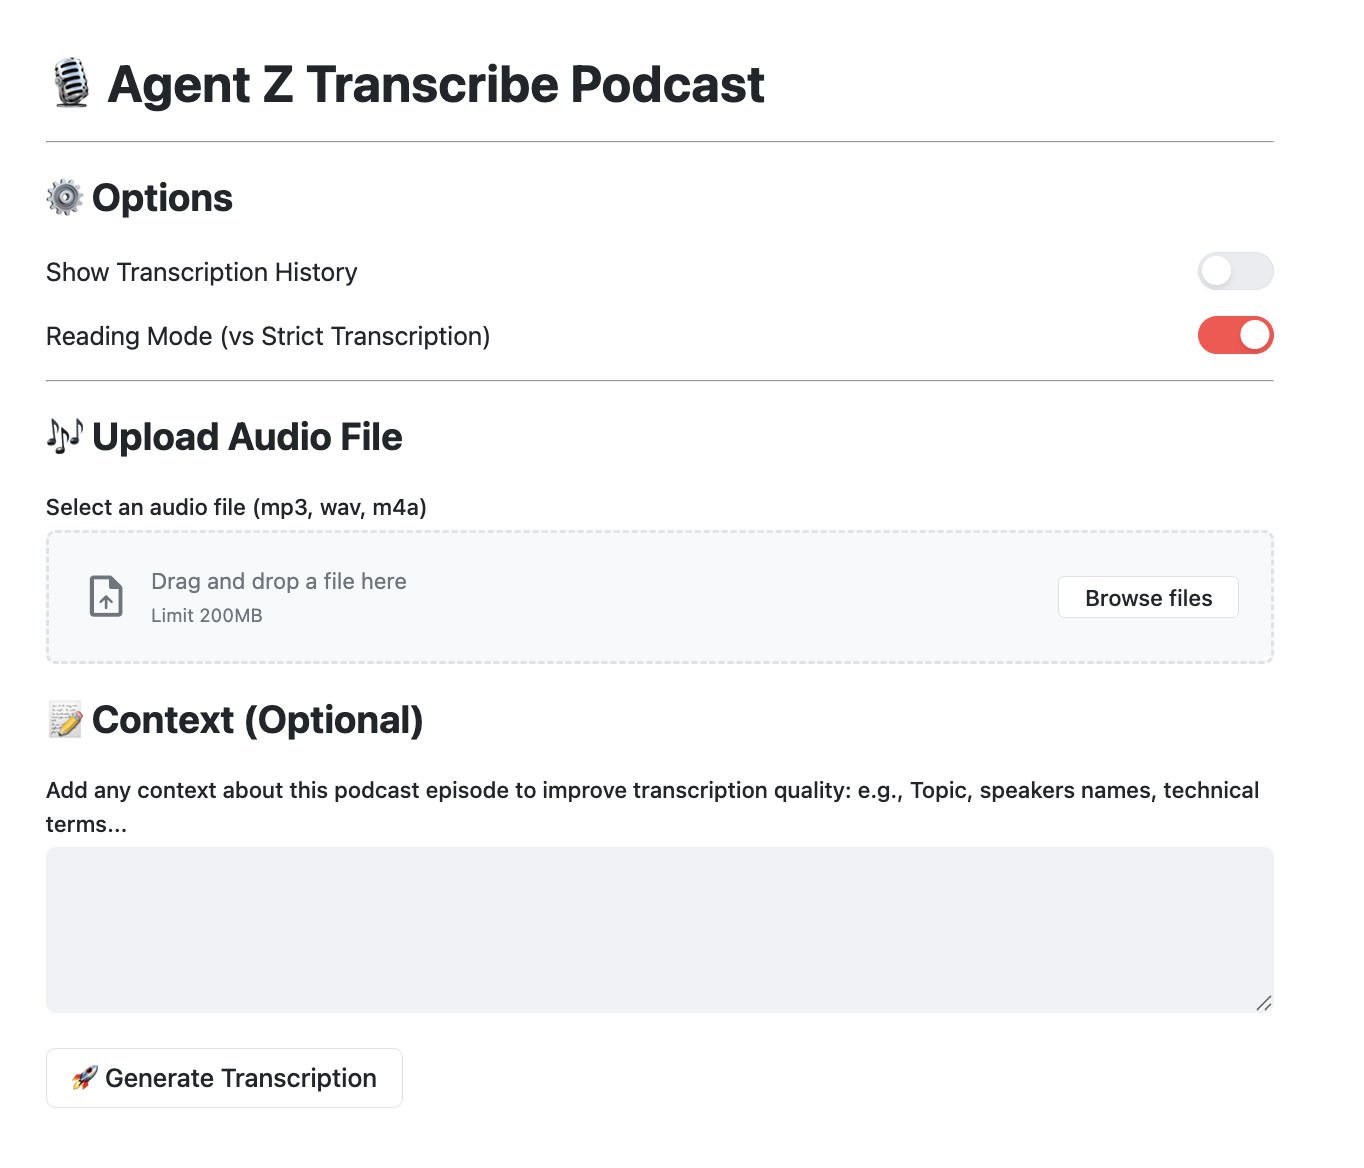
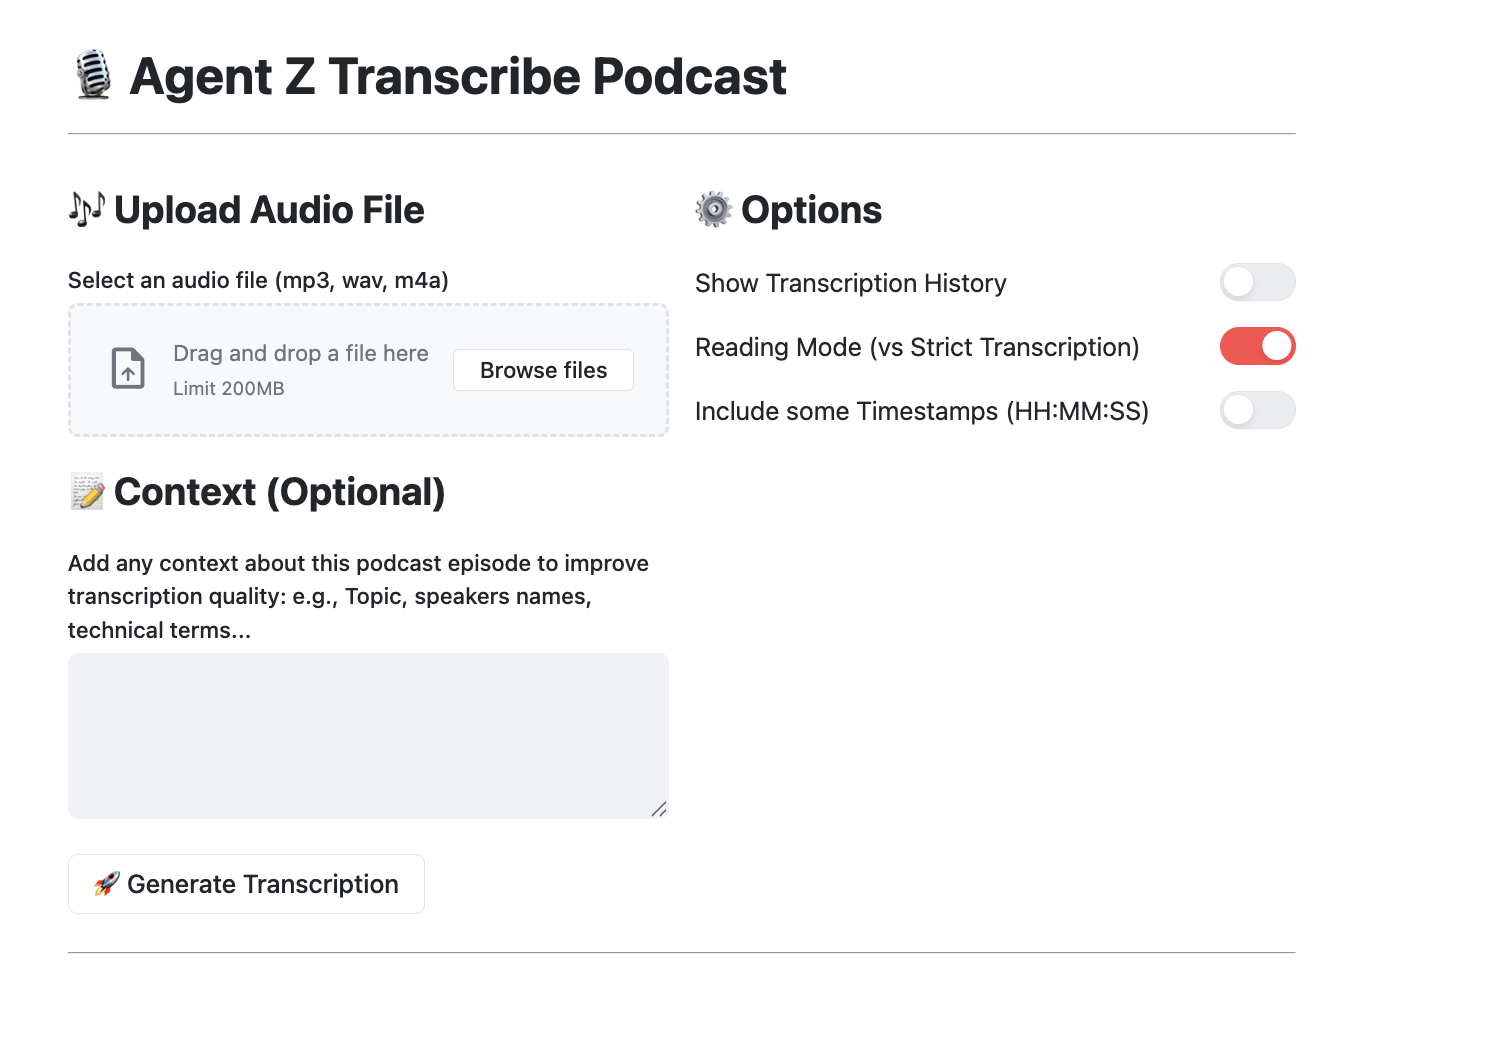
:memo: Complete doc (#36)

diff --git a/README.md b/README.md
@@ -1,11 +1,26 @@
 # 🤖 Agent Z transcribe podcast
+
 <!-- ALL-CONTRIBUTORS-BADGE:START - Do not remove or modify this section -->
 [![All Contributors](https://img.shields.io/badge/all_contributors-4-orange.svg?style=flat-square)](#contributors)
 <!-- ALL-CONTRIBUTORS-BADGE:END -->
+[![Release](https://github.com/zenika-open-source/agent-Z-transcribe-podcast/actions/workflows/release.yml/badge.svg)](https://github.com/zenika-open-source/agent-Z-transcribe-podcast/actions/workflows/release.yml)
+[![GitHub Release](https://img.shields.io/github/v/release/zenika-open-source/agent-Z-transcribe-podcast)](https://github.com/zenika-open-source/agent-Z-transcribe-podcast/releases)
 
-This is an IA Agent to transcribe podcasts to be easily readable as a book 🤘
+This is an AI Agent to transcribe podcasts to be easily readable as a book 🤘
+
+## ✨ Features
+
+- **Podcast Transcription**: Transcribes French tech podcasts into readable text.
+- **Timestamps**: Option to include timestamps in the transcription.
+- **Download**: Save transcription as a Markdown file directly from the browser (compatible with Cloud Run).
+- **Modern AI**: Powered by Gemini 3 Pro.
+
+![Agent Z Transcribe](./docs/screen.png)
 
 ## 🛠 Configuration
+
+**Prerequisites:**
+- Java 25
 
 1⃣ Export these 2 variables:
 ```sh
@@ -13,9 +28,9 @@ export GOOGLE_GENAI_USE_VERTEXAI=FALSE
 export GOOGLE_API_KEY=<your gemini API>
 ```
 
-2⃣ Create a `.env file`. The template `.env-template` in avaiable.
+2⃣ Create a `.env` file. The template `.env-template` is available.
 
-## ✨ Development
+## 🧑💻 Development
 
 To run your agent (if you have only one specific agent):
 
@@ -23,60 +38,49 @@ To run your agent (if you have only one specific agent):
 mvn dependency:build-classpath -Dmdep.outputFile=cp.txt && java -cp target/classes:$(cat cp.txt) transcribe.ZPodcastTranscribe
 ```
 
-To run the UI, run this command and go to ```http://localhost:8888```
-
-![Agent Z Transcribe](docs/screen.png)
+Then go to [http://localhost:8080/](http://localhost:8080/).
 
 ## 🐳 Docker
 
-This app could be runned with Docker and this command 
-```
-docker build -t agent-z-transcribe-podcast
-docker run -p 8888:8888 -e PORT=8888  agent-z-transcribe-podcast
+This app can be run with Docker:
+
+```sh
+docker build -t agent-z-transcribe-podcast .
+docker run -p 8080:8080 -e PORT=8080 agent-z-transcribe-podcast
 ```
 
 ## 🚀 Deployment
 
 To deploy on Cloud Run:
 
-- authentification on GCP with `gcloud auth login`
+1. Authenticate on GCP:
+   ```sh
+   gcloud auth login
+   ```
 
-- configure settings exporting variables:
+2. Configure settings by exporting variables:
+   ```sh 
+   export GOOGLE_CLOUD_PROJECT=<your project>
+   export GOOGLE_CLOUD_LOCATION=<location like europe-west1>
+   export GOOGLE_GENAI_USE_VERTEXAI=<true if you deploy on Google Cloud, else false>
+   export GOOGLE_API_KEY=<your GOOGLE API KEY>
+   ```
 
-```sh 
-export GOOGLE_CLOUD_PROJECT=<your projet>
-export GOOGLE_CLOUD_LOCATION=<location like europe-west1>
-export GOOGLE_GENAI_USE_VERTEXAI=<true if you deploy on Google Cloud, else false>
-export GOOGLE_API_KEY=<your GOOGLE API KEY>
-```
+3. Deploy using `gcloud`:
+   ```sh
+   gcloud run deploy agent-z-transcribe-podcast \
+   --source . \
+   --region $GOOGLE_CLOUD_LOCATION \
+   --project $GOOGLE_CLOUD_PROJECT \
+   --allow-unauthenticated \
+   --memory 1Gi \
+   --max-instances 1 \
+   --set-env-vars="GOOGLE_CLOUD_PROJECT=$GOOGLE_CLOUD_PROJECT,GOOGLE_CLOUD_LOCATION=$GOOGLE_CLOUD_LOCATION,GOOGLE_GENAI_USE_VERTEXAI=$GOOGLE_GENAI_USE_VERTEXAI,GOOGLE_API_KEY=$GOOGLE_API_KEY"
+   ```
 
-or adding them into a `.env` file (cf `env-template` file)
-```
-export GCLOUD_PROJECT=
-export GCLOUD_LOCATION=europe-west1
-export GCLOUD_GENAI_USE_VERTEXAI=FALSE
-export GOOGLE_API_KEY=
-```
+## ✨ Contribute
 
-- and run the `gcloud` command.
-
-```sh
-gcloud run deploy agent-z-transcribe-podcast \
---source . \
---region $GCLOUD_LOCATION \
---project $GCLOUD_PROJECT \
---allow-unauthenticated \
---memory 1Gi \
---max-instances 1 \
---set-env-vars="GOOGLE_CLOUD_PROJECT=$GCLOUD_PROJECT,GOOGLE_CLOUD_LOCATION=$GCLOUD_LOCATION,GOOGLE_GENAI_USE_VERTEXAI=$GCLOUD_GENAI_USE_VERTEXAI,GOOGLE_API_KEY=$GOOGLE_API_KEY"
-
-```
-
-
-## ✨Contribute
-
-Anyone can contribute to this project. For the moment, please add your question or purpose something in [a new issue](https://github.com/zenika-open-source/opensource-statistics/issues).
-
+Anyone can contribute to this project. For the moment, please add your question or purpose something in [a new issue](https://github.com/zenika-open-source/agent-Z-transcribe-podcast/issues).
 
 ## 🙏 Contributors
 
